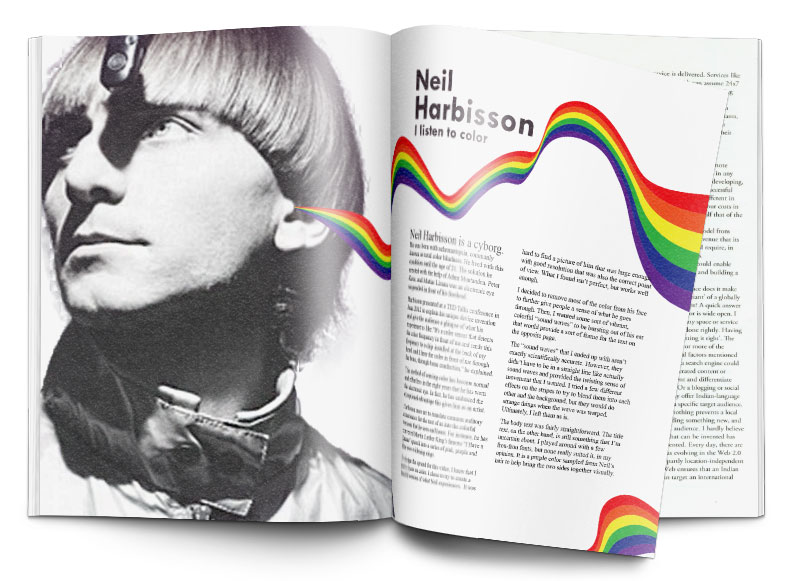
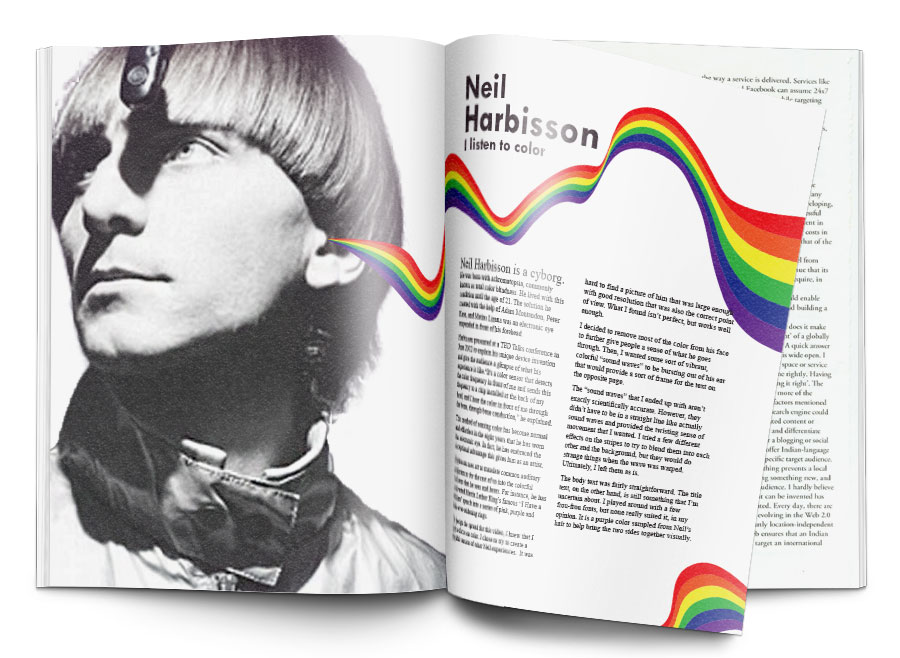
filling portfolio

Changed region(s): [[0.0303, 0.031, 0.9709, 0.9914], [0.4855, 0.031, 0.5461, 0.062], [0.3034, 0.4337, 0.3338, 0.4647]]

diff --git a/portfolio.html b/portfolio.html
@@ -67,7 +67,7 @@
 				<div class="thumbnail">
 					<a href="#full6">
 						<p>Magazine Spread</p>
-				  		<img src="img/portfolio/Neil.gif">
+				  		<img src="img/portfolio/DSHS.gif">
 				  	</a>
 				</div>
 
@@ -98,26 +98,26 @@
 
 				  <ul>
 				    <li>
-				      <img src="img/portfolio/Neil.jpg" id="full1">
+				      <img src="img/portfolio/Easterner.png" id="full1">
 				    </li>
 				    <li>
-				    	<img src="http://placehold.it/200x300" id="full2">
+				    	<img src="img/portfolio/Teabaggin.png" id="full2">
 				    	<a class="close" href="#">&times;</a>
 				    </li>
 				    <li>
-				     <img src="http://placehold.it/200x300" id="full3">
+				     <img src="img/portfolio/Neil.jpg" id="full3">
 				     <a class="close" href="#">&times;</a>
 				    </li>
 				    <li>
-				      <img src="http://placehold.it/200x300" id="full4">
+				      <img src="img/portfolio/Top10.png" id="full4">
 				      <a class="close" href="#">&times;</a>
 				    </li>
 				    <li>
-				      <img src="http://placehold.it/200x300" id="full5">
+				      <img src="img/portfolio/Waves.jpg" id="full5">
 				      <a class="close" href="#">&times;</a>
 				    </li>
 				    <li>
-				     <img src="http://placehold.it/200x300" id="full6">
+				     <img src="img/portfolio/DSHS.png" id="full6">
 				     <a class="close" href="#">&times;</a>
 				    </li>
 				    <li>

diff --git a/css/styles.css b/css/styles.css
@@ -1,8 +1,4 @@
- /* font-size: ... /* 26px/16px = intended size/1em  */
-/* RED CHOCOLATE #A30018 #332828 */
-
-
-/* circles, div color/gradient */
+/* RED CHOCOLATE #A30018 #332828 BLUE #48525c*/
 
  /*Global*/
 
@@ -285,7 +281,9 @@ div {
   bottom: 0;
   left: 0;
   right: 0;
-  
+
+  box-shadow: 0 15px 20px -12px rgba(0,0,0, .7);
+  border-radius: 5px;
 
   visibility: hidden;
   opacity: 0;
@@ -300,7 +298,7 @@ div {
   font-size: 2em;
   font-weight: bold;
   text-decoration: none;
-  color: #A30018;
+  color: #48525c;
   visibility: visible;
 }
 
